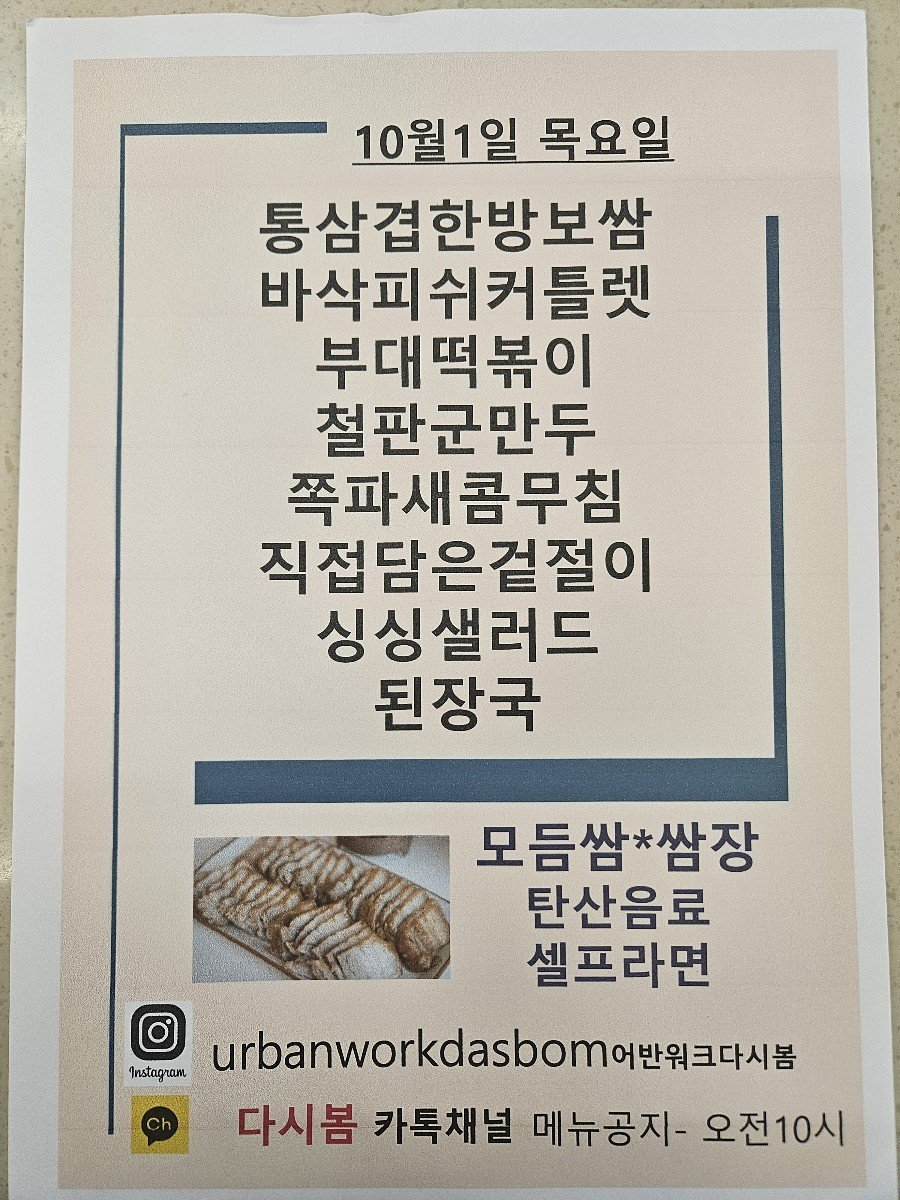
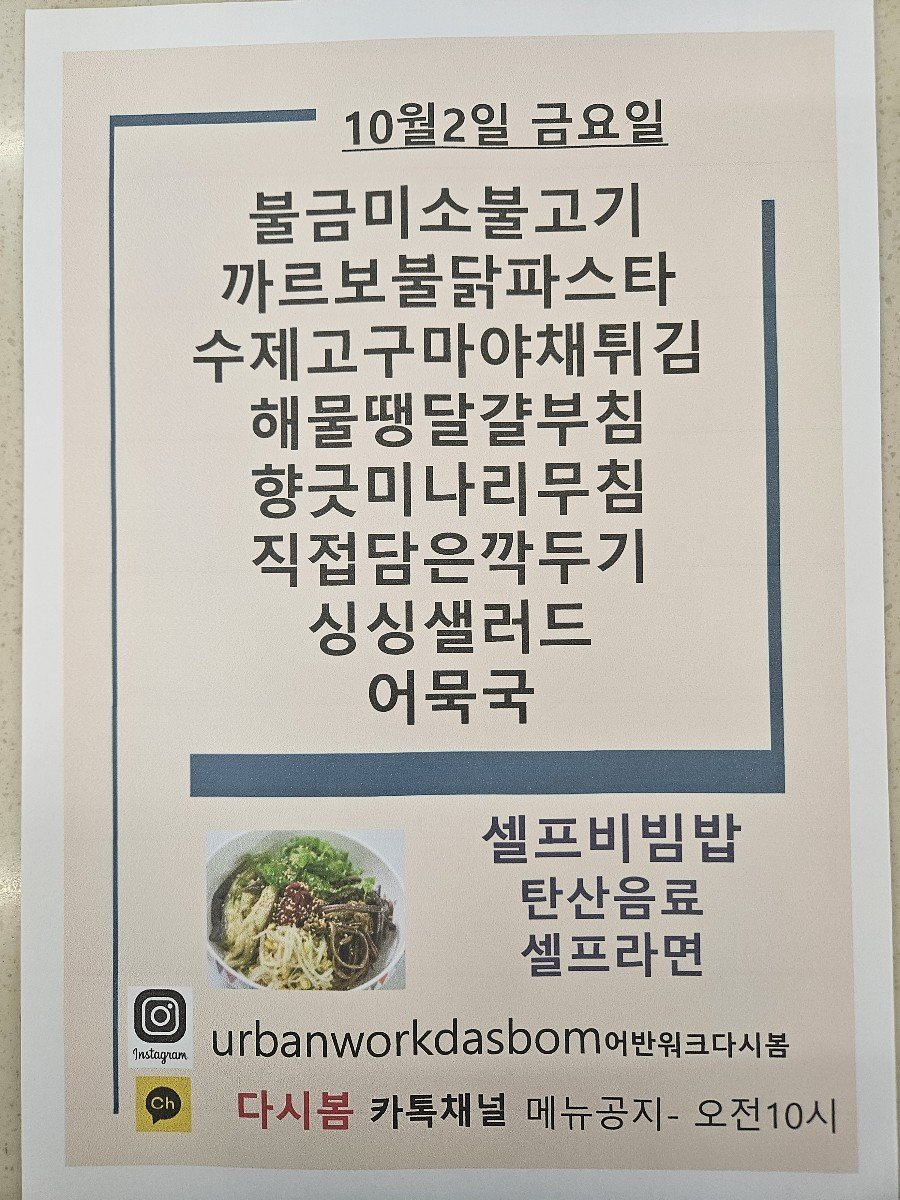
Update menu board assets

Changed region(s): [[0.0, 0.0, 1.0, 1.0], [0.0, 0.2775, 0.0311, 1.0]]

diff --git a/menu-today/index.html b/menu-today/index.html
@@ -209,7 +209,7 @@
 
     <section class="meta-bar">
       <div class="meta-card"><div class="meta-label">기준 날짜</div><div class="meta-value">2026년 10월 2일 금요일</div></div>
-      <div class="meta-card"><div class="meta-label">최종 가져온 시간</div><div class="meta-value">2026-10-02 09:33:33</div></div>
+      <div class="meta-card"><div class="meta-label">최종 가져온 시간</div><div class="meta-value">2026-10-02 09:48:11</div></div>
       <div class="meta-card"><div class="meta-label">확인 완료</div><div class="meta-value">9개 식당</div></div>
       <div class="meta-card"><div class="meta-label">준비중</div><div class="meta-value">3개 채널</div></div>
     </section>
@@ -235,7 +235,7 @@
             <div class="sub">가산 어반워크</div>
           </div>
         </div>
-        <div class="menu-inline-image"><img src="./images/dasibom.png" alt="다시 봄 식단 이미지"></div><ul><li>통삼겹한방보쌈 be</li><li>바삭피쉬커틀렛 E</li><li>‘ 철판군만두 「</li><li>쪽파새콤무침</li><li>직접담은겉절이 「</li><li>싱 시 샐 러 =</li><li>통삼겹한방보쌈</li><li>바삭피쉬커틀렛</li><li>떠 부</li></ul>
+        <div class="menu-inline-image"><img src="./images/dasibom.png" alt="다시 봄 식단 이미지"></div><ul><li>불금미소불고기</li><li>까르보불닭파스타 L</li><li>수제고구마야채튀김</li><li>해물팽달갈부침</li><li>향긋미나리무침 !</li><li>어묵국</li><li>까르보불닭파스타</li><li>긋미나리 무침</li></ul>
       </article>
 
       <article class="restaurant-card">
@@ -295,7 +295,7 @@
             <div class="sub">에이스테크노타워10차</div>
           </div>
         </div>
-        <div class="menu-inline-image"><img src="./images/thefoodsketch.png" alt="더푸드스케치 식단 이미지"></div><ul><li>직화닭불고기</li><li>오징어먹물크림치스볼</li><li>에그토마토브리또</li><li>= 순대볶음</li><li>해파리냉채</li><li>숙주나물 / 요구르트</li><li>가든샐러드 &amp; 드레싱</li><li>배추겉절이 / 응료</li><li>가쓰오으도</li></ul>
+        <div class="menu-inline-image"><img src="./images/thefoodsketch.png" alt="더푸드스케치 식단 이미지"></div><ul><li>직화닭불고기</li><li>오징어먹물크림치스볼</li><li>에그토마토브리또</li><li>= 순대볶음</li><li>해파리냉채</li><li>숙주나물 / 요구르트</li><li>가든샐러드 / 드레싱</li><li>배추겉절이 / 응료</li><li>가쓰오으도</li></ul>
       </article>
 
       <article class="restaurant-card">

diff --git a/guro-menu/index.html b/guro-menu/index.html
@@ -32,7 +32,7 @@
   </header>
   <section class="meta">
     <div><small>기준 날짜</small><strong>2026년 10월 2일 금요일</strong></div>
-    <div><small>최종 갱신</small><strong>2026-10-02 09:33:49</strong></div>
+    <div><small>최종 갱신</small><strong>2026-10-02 09:48:27</strong></div>
     <div><small>등록 식당</small><strong>5개</strong></div>
   </section>
   <div class="notice">공개 카카오 채널의 메뉴 이미지를 자동 수집하고 OCR로 정리합니다. 텍스트에 오타가 있을 수 있으니 식단 이미지를 함께 확인해 주세요.</div>
